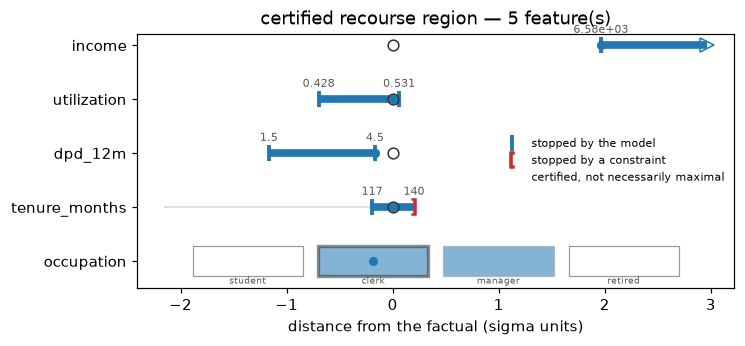
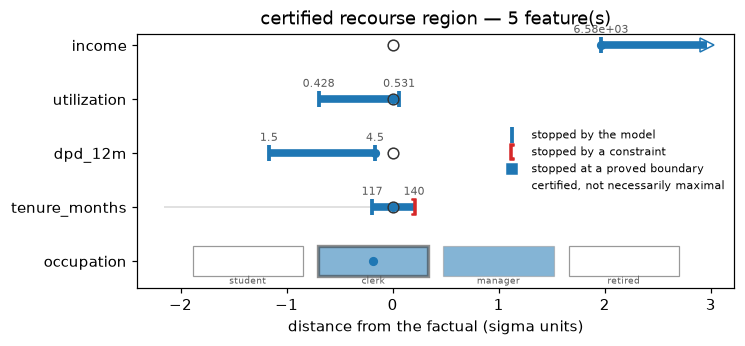
feat: certification trace plot
plot_certification_trace draws an exact solve's trace: the incumbent
cost and the lower bound against nodes expanded on a log axis, the gap
between them shaded, and the outcome named at the terminal marker —
optimal, within gap, certified infeasible, or stopped early. It accepts
a Counterfactual, an Infeasible, or a BatchRecord and raises TreecfError
for a result without a trace. The docs figure set gains the trace figure
and a maximal-mode region figure; plot_region's own figure picks up its
new legend entry.

Changed region(s): [[0.6792, 0.3757, 0.9879, 0.5491]]

diff --git a/src/treecf/viz.py b/src/treecf/viz.py
@@ -11,6 +11,7 @@ from treecf.api import Counterfactual, Infeasible
 
 __all__ = [
     "plot_alternatives",
+    "plot_certification_trace",
     "plot_changes",
     "plot_counterfactuals",
     "plot_effort",
@@ -1100,6 +1101,108 @@ def plot_region(
         )
     _region_legend(ax, show_caveat)
     return ax
+
+
+def plot_certification_trace(result: Any, *, ax: Any = None) -> Any:
+    """How an exact search's proof formed: incumbent and lower bound over nodes.
+
+    Reads ``solver_stats["trace"]`` — the samples the exact backend takes at
+    every incumbent update and every power-of-two node count — and draws the
+    incumbent cost (what has been found) and the lower bound (what can still
+    be ruled out) against the nodes expanded on a log axis, with the gap
+    between them shaded. The terminal marker names the outcome: ``optimal``,
+    ``within gap``, ``certified infeasible``, or ``stopped early`` for a
+    search that ran out of budget or withdrew its claim (the solve-time
+    warning says which).
+
+    Parameters
+    ----------
+    result
+        A ``Counterfactual``, ``Infeasible``, or ``BatchRecord`` produced
+        by ``backend="exact"``.
+    ax
+        Axes to draw on; a new figure is created when omitted.
+
+    Returns
+    -------
+    The matplotlib ``Axes`` drawn on.
+
+    Raises
+    ------
+    MissingExtraError
+        If matplotlib is not installed.
+    TreecfError
+        If ``result`` carries no trace (a genetic or python-backend result).
+    """
+    plt = _import_pyplot()
+
+    stats = getattr(result, "solver_stats", None)
+    trace = stats.get("trace") if isinstance(stats, dict) else None
+    if not trace:
+        raise TreecfError(
+            "result carries no certification trace; only backend='exact' records one"
+        )
+    assert isinstance(stats, dict)  # narrowed by the trace check above
+    nodes = [max(int(n), 1) for n, _, _ in trace]  # a log axis cannot show node 0
+    incumbents = [None if c is None else float(c) for _, c, _ in trace]
+    bounds = [float(b) for _, _, b in trace]
+
+    if ax is None:
+        _, ax = plt.subplots(figsize=(6, 3.2))
+    known_bound = [(n, b) for n, b in zip(nodes, bounds, strict=True) if math.isfinite(b)]
+    if known_bound:
+        ax.plot(
+            [n for n, _ in known_bound], [b for _, b in known_bound],
+            drawstyle="steps-post", color="C3", linewidth=1.5, label="lower bound",
+        )
+    known_inc = [(n, c) for n, c in zip(nodes, incumbents, strict=True) if c is not None]
+    if known_inc:
+        ax.plot(
+            [n for n, _ in known_inc], [c for _, c in known_inc],
+            drawstyle="steps-post", color="C0", linewidth=1.5, label="incumbent",
+        )
+    both = [
+        (n, c, b)
+        for n, c, b in zip(nodes, incumbents, bounds, strict=True)
+        if c is not None and math.isfinite(b)
+    ]
+    if both:
+        ax.fill_between(
+            [n for n, _, _ in both], [b for _, _, b in both], [c for _, c, _ in both],
+            step="post", color="C0", alpha=0.15, linewidth=0, label="_gap",
+        )
+    ax.set_xscale("log")
+    ax.set_xlabel("nodes expanded")
+    ax.set_ylabel("cost")
+    ax.set_title("certification trace")
+
+    outcome = _trace_outcome(result, stats)
+    last_n = nodes[-1]
+    last_y = incumbents[-1] if incumbents[-1] is not None else (
+        bounds[-1] if math.isfinite(bounds[-1]) else 0.0
+    )
+    ax.plot([last_n], [last_y], marker="o", color="0.2", markersize=5, zorder=5,
+            label="_terminal")
+    ax.annotate(
+        outcome, xy=(last_n, last_y), xytext=(-6, 8), textcoords="offset points",
+        ha="right", fontsize=8, color="0.2",
+    )
+    if known_bound or known_inc:
+        ax.legend(fontsize=7, frameon=False, loc="best")
+    return ax
+
+
+def _trace_outcome(result: Any, stats: dict[str, Any]) -> str:
+    """The claim a result makes, as the trace's terminal label."""
+    proof = str(getattr(result, "proof", ""))
+    feasible = getattr(result, "feasible", getattr(result, "x_cf", None) is not None)
+    if proof == "optimal_within_gap":
+        return "within gap"
+    if proof == "optimal":
+        return "optimal"
+    if proof == "certified" or (not feasible and stats.get("completed") is True):
+        return "certified infeasible"
+    return "stopped early"
 
 
 _CAP_MODEL = "stopped by the model"

diff --git a/tests/test_viz.py b/tests/test_viz.py
@@ -1232,3 +1232,90 @@ class TestPlotRegion:
         ax = plot_region(exp, x, (region, x_cf), max_features=1)
         assert len(ax.get_yticklabels()) == 1
         assert any("(+1 more)" in t.get_text() for t in ax.texts)
+
+
+class TestPlotCertificationTrace:
+    """The exact search's trace as a picture: incumbent and lower bound over
+    nodes, the gap shaded, the outcome named at the end."""
+
+    @staticmethod
+    def _levers() -> tuple[object, np.ndarray]:
+        from treecf import Explainer
+        from treecf.ir.model import EnsembleIR, Link, Node, SplitOp, Tree
+
+        def leaf(i: int, v: float) -> Node:
+            return Node(i, None, None, None, None, None, None, v)
+
+        def stump(f: int, t: float, rv: float) -> Tree:
+            return Tree((Node(0, f, t, SplitOp.LT, True, 1, 2, None), leaf(1, 0.0), leaf(2, rv)))
+
+        ir = EnsembleIR(
+            (stump(0, 1.0, 1.0), stump(1, 1.0, 0.8), stump(2, 1.0, 0.6)),
+            0.0, Link.IDENTITY, 3, ("a", "b", "c"), {},
+        )
+        return Explainer(ir, normalizers=np.ones(3)), np.zeros(3)
+
+    def test_genetic_result_has_no_trace(self) -> None:
+        from treecf import Target, TreecfError
+        from treecf.viz import plot_certification_trace
+
+        exp, x = self._levers()
+        result = exp.explain(x, Target.raw(op=">=", value=0.5), seed=0)
+        with pytest.raises(TreecfError, match="trace"):
+            plot_certification_trace(result)
+
+    def test_exact_result_draws_both_curves_and_names_the_outcome(self) -> None:
+        from treecf import Target
+        from treecf.viz import plot_certification_trace
+
+        exp, x = self._levers()
+        result = exp.explain(x, Target.raw(op=">=", value=1.5), backend="exact", seed=0)
+        ax = plot_certification_trace(result)
+        assert ax.get_xscale() == "log"
+        labels = [ln.get_label() for ln in ax.lines]
+        assert "incumbent" in labels and "lower bound" in labels
+        assert ax.collections  # the shaded gap
+        texts = [t.get_text() for t in ax.texts]
+        assert any("optimal" in t for t in texts)
+
+    def test_unproven_outcome_is_named(self) -> None:
+        from treecf import Target, TreecfWarning
+        from treecf.viz import plot_certification_trace
+
+        exp, x = self._levers()
+        with pytest.warns(TreecfWarning):
+            result = exp.explain(
+                x, Target.raw(op=">=", value=1.5), backend="exact", seed=0,
+                warm_start=True, node_budget=1, time_budget_s=5.0,
+            )
+        ax = plot_certification_trace(result)
+        texts = [t.get_text() for t in ax.texts]
+        assert any("stopped early" in t for t in texts)
+
+    def test_infeasible_and_batch_records_are_accepted(self) -> None:
+        from treecf import Infeasible, Target
+        from treecf.viz import plot_certification_trace
+
+        exp, x = self._levers()
+        result = exp.explain(x, Target.raw(op=">=", value=10.0), backend="exact", seed=0)
+        assert isinstance(result, Infeasible)
+        ax = plot_certification_trace(result)
+        assert any("certified" in t.get_text() for t in ax.texts)
+
+        batch = exp.explain_batch(
+            np.zeros((1, 3)), Target.raw(op=">=", value=0.5), backend="exact", seed=0,
+            allow_exact_batch=True,
+        )
+        ax = plot_certification_trace(batch.records[0])
+        assert ax.lines
+
+    def test_axis_is_reused_when_given(self) -> None:
+        import matplotlib.pyplot as plt
+
+        from treecf import Target
+        from treecf.viz import plot_certification_trace
+
+        exp, x = self._levers()
+        result = exp.explain(x, Target.raw(op=">=", value=0.5), backend="exact", seed=0)
+        _, ax = plt.subplots()
+        assert plot_certification_trace(result, ax=ax) is ax

diff --git a/docs/scripts/generate_figures.py b/docs/scripts/generate_figures.py
@@ -11,6 +11,7 @@ Run from anywhere: ``uv run python docs/scripts/generate_figures.py``
 from __future__ import annotations
 
 import pathlib
+import warnings
 
 import matplotlib
 
@@ -18,9 +19,10 @@ matplotlib.use("Agg")
 import matplotlib.pyplot as plt
 import numpy as np
 
-from treecf import Explainer, Range, Target
+from treecf import Explainer, Range, Target, TreecfWarning
 from treecf.viz import (
     plot_alternatives,
+    plot_certification_trace,
     plot_changes,
     plot_counterfactuals,
     plot_effort,
@@ -118,6 +120,19 @@ def main() -> None:
     )
     certified = exp_rng.explain(x, target=target, backend="exact", region=True, seed=0)
     _save("plot_region", _fig_of(plot_region(exp_rng, x, certified)))
+    # the same region grown in the maximal mode: proved sides get the square cap
+    maximal = exp_rng.explain(
+        x, target=target, backend="exact", region=True, region_mode="maximal", seed=0
+    )
+    _save("plot_region_maximal", _fig_of(plot_region(exp_rng, x, maximal)))
+
+    # a budget-limited exact solve leaves a visible gap between incumbent and bound
+    with warnings.catch_warnings():
+        warnings.simplefilter("ignore", TreecfWarning)
+        cut = exp.explain(
+            x, target=target, backend="exact", seed=0, node_budget=50_000, warm_start=False
+        )
+    _save("plot_certification_trace", _fig_of(plot_certification_trace(cut)))
 
     batch = exp.explain_batch(X_bg[:20], target=target, seed=0)
     _save("plot_batch_summary", _fig_of(plot_batch_summary(batch)))

diff --git a/tests/test_docs_structure.py b/tests/test_docs_structure.py
@@ -71,6 +71,7 @@ PLOT_FUNCTIONS = [
     "plot_waterfall",
     "plot_effort",
     "plot_region",
+    "plot_certification_trace",
     "plot_batch_levers",
     "plot_batch_matrix",
     "plot_batch_summary",
